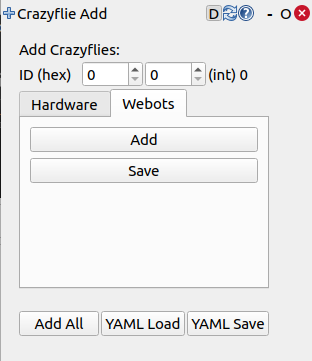
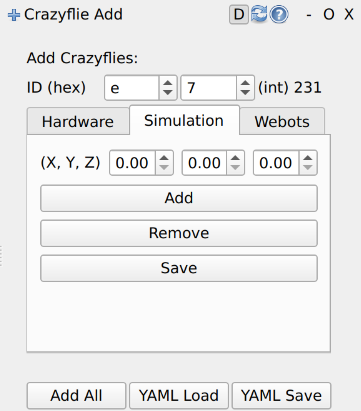
some work on docs

diff --git a/docs/welcome.rst b/docs/welcome.rst
@@ -7,7 +7,7 @@ Welcome to DynamicSwarms Crazyflies
     :maxdepth: 2
 
 The Dynamic Swarms Crazyflie project is a fully ROS2 based software stack that allows you to control multiple `Crazyflies <https://www.bitcraze.io/>`_ simultaneously.
-The project was heavily inspired by the `Crazyswarm <https://crazyswarm.readthedocs.io/en/latest/>`_ and `Crazyswarm 2 <https://imrclab.github.io/crazyswarm2/>`_ projects.
+The project was heavily inspired by the `Crazyswarm <https://crazyswarm.readthedocs.io/en/latest/>`_ [Crazyswarm]_ and `Crazyswarm 2 <https://imrclab.github.io/crazyswarm2/>`_ projects.
 It provides the ability to safely add and remove Crazyflies while the system is running. It is completely ROS2 based and therefore allows you to access the radio and other internal mechanisms directly.
 
 In our development of a Crazyflie Swarm Middleware with up to 50 Crazyflies, which are charged with the `QI-Charging Deck <https://www.bitcraze.io/products/qi-1_2-charger-deck/>`_, we modified the `Crazyswarm <https://crazyswarm.readthedocs.io/en/latest/>`_ project heavily to meet our needs. A key feature we needed was the ability to add and remove Crazyflies at runtime.
@@ -15,7 +15,9 @@ In our development of a Crazyflie Swarm Middleware with up to 50 Crazyflies, whi
 As ROS Noetic reached it's `end of life <http://wiki.ros.org/Distributions>`_ we wanted to move to ROS 2 and had to decide whether to integrate our changes into `Crazyswarm 2 <https://imrclab.github.io/crazyswarm2/>`_ or use the knowledge gained to develop our own software stack. 
 The `Crazyswarm 2 <https://imrclab.github.io/crazyswarm2/>`_ implementation did not come with any improvements regarding our specific needs, so we decided to develop this project.
 
-This package also provides a `Webots <https://cyberbotics.com/>`_ simulation interface so that simulated Crazyflies and real hardware Crazyflies can be used interchangeably.
+This package not only allows to control real Crazyflies, but also provides a lightweight simulation (which was tested with up to 80 Crazyflies) as well as a software in the loop (SITL) simulation. 
+The SITL simulation runs the Crazyflie firmware in a simulation environment, which allows for comprehensive testing of code before deploying it to real Crazyflies. It is based on [CrazySim]_.
+The quadcopter model used for the simulations is derived from [Flightmare]_.
 
 The following was created using our modified version of `Crazyswarm <https://crazyswarm.readthedocs.io/en/latest/>`_.
 
@@ -30,13 +32,11 @@ What is the difference to `Crazyswarm 2 <https://imrclab.github.io/crazyswarm2/>
 
 The `Crazyswarm 2 <https://imrclab.github.io/crazyswarm2/>`_ project, specifically the cpp backend, is implemented as a monolithic Ros2 node.
 This makes it difficult to modify and adapt the library to specific needs. 
-Our implementation has a ros **node for each Crazyflie**, which allows for way better flexibility and scalability.
+Our implementation has a **ROS2 node for each Crazyflie**, which allows for way better flexibility and scalability.
 
 This seperation into nodes also makes it much easier to **add and remove Crazyflies during runtime**.
 Especially if you do not know your swarm configuration at startup, the Crazyswarm(2) implementation is not suitable.
 
-A major difference is that crazyflie functionalities, such as ``takeoff, land, etc``, are not implemented as services but as topics.
-This allows user code to be completely independent of the implementation, avoiding deadlocks when a crazyflie fails.
 
 When should I use this library instead of `Crazyswarm 2 <https://imrclab.github.io/crazyswarm2/>`_?
 ***************************************************************************************************
@@ -48,3 +48,13 @@ When should I use this library instead of `Crazyswarm 2 <https://imrclab.github.
 
 
 Start working with ds-crazyflies and follow the :doc:`installation instructions </installation>`.
+
+
+References
+**********
+
+.. [Crazyswarm] Preiss, J. A., Hönig, W., Sukhatme, G. S., & Ayanian, N. (2017). `Crazyswarm: A Large Nano-Quadcopter Swarm <https://doi.org/10.1109/ICRA.2017.7989376>`_. IEEE International Conference on Robotics and Automation (ICRA), 3299--3304. `Source code <https://github.com/USC-ACTLab/crazyswarm>`_.
+
+.. [CrazySim] Llanes, C., Kakish, Z., Williams, K., & Coogan, S. (2024). `CrazySim: A Software-in-the-Loop Simulator for the Crazyflie Nano Quadrotor <https://coogan.ece.gatech.edu/papers/pdf/llanes2024crazysim.pdf>`_. IEEE International Conference on Robotics and Automation (ICRA).
+
+.. [Flightmare] Song, Y., Naji, S., Kaufmann, E., Loquercio, A., & Scaramuzza, D. (2020). *Flightmare: A Flexible Quadrotor Simulator.* Conference on Robot Learning (CoRL). `Source code <https://github.com/uzh-rpg/flightmare>`_.

diff --git a/docs/installation.rst b/docs/installation.rst
@@ -3,25 +3,25 @@
 Installation
 ############
 
-This project has been developed and tested for ROS2 Humble on following system configurations. 
+This project has been developed and tested for ROS2 Lyrical on following system configurations. 
 It is recommended to also use a similar configuration.
 
 ====== =======
 Ubuntu ROS
 ------ -------
-22.04  Humble
+26.04  Lyrical
 ====== =======
    
 Step by Step Instructions
 =========================
 
-#. If you have not already done so install `ROS 2 Humble <https://docs.ros.org/en/humble/index.html>`_ on your system.
+#. If you have not already done so install `ROS 2 Lyrical <https://docs.ros.org/en/lyrical/index.html>`_ on your system.
 
 #. These dependencies are required:
 
    .. code-block:: bash
 
-      sudo apt-get install ros-humble-tf-transformations ros-humble-ros2-control ros-humble-vision-msgs
+      sudo apt-get install ros-lyrical-tf-transformations
       sudo apt install python3-colcon-common-extensions
 
 #. Clone the `ds-crazyflies <https://github.com/DynamicSwarms/ds-crazyflies>`_ (this) repository 
@@ -43,7 +43,6 @@ Step by Step Instructions
 
    - ``simulation``: A lightweight simulation that can be used for testing.
 
-   - ``webots``: A more demanding simulation enviroment. (Make sure to install Webots as described below.) 
    
    - ``sitl``: The crazyflie firmware as software in the loop. Requires ``hardware`` to be selected as well.
 
@@ -55,42 +54,6 @@ Step by Step Instructions
 
             ./setup.sh simulation hardware
       
-      .. tab:: Build with Webots
-
-
-         #. Install the Webots Simulator (We are currently supporting Webots2025a): 
-
-            For this you can follow the instructions from Cyberbotics: https://cyberbotics.com/doc/guide/installation-procedure#installing-the-debian-package-with-the-advanced-packaging-tool-apt
-
-            .. code-block:: bash
-
-               sudo mkdir -p /etc/apt/keyrings
-               cd /etc/apt/keyrings
-               sudo wget -q https://cyberbotics.com/Cyberbotics.asc
-
-            .. code-block::   bash
-
-               echo "deb [arch=amd64 signed-by=/etc/apt/keyrings/Cyberbotics.asc] https://cyberbotics.com/debian binary-amd64/" | sudo tee /etc/apt/sources.list.d/Cyberbotics.list
-               sudo apt update
-
-            .. code-block::   bash
-
-               sudo apt install webots
-
-            .. note:: 
-               Avoid installing Webots via snap as this causes issues with the ROS2 integration.
-         
-         #. Configure with the ``webots`` option. 
-
-            .. code-block:: bash
-
-               ./setup.sh webots
-               
-         #. Export the webots home variable before building.
-
-            .. code-block:: bash
-
-               export WEBOTS_HOME=/usr/local/webots
 
 #. Build the workspace with colcon:
 
@@ -100,8 +63,54 @@ Step by Step Instructions
       colcon build
 
 
-Additional Steps for Webots
+End of Life Support for Webots
 ==========================
+
+Webots support will be removed in the future. 
+Probably it currently still works, if you want to, try the following:
+
+
+
+.. tabs::
+
+   .. tab:: Build with Webots
+
+
+            #. Install the Webots Simulator (We are currently supporting Webots2025a): 
+
+               For this you can follow the instructions from Cyberbotics: https://cyberbotics.com/doc/guide/installation-procedure#installing-the-debian-package-with-the-advanced-packaging-tool-apt
+
+               .. code-block:: bash
+
+                  sudo mkdir -p /etc/apt/keyrings
+                  cd /etc/apt/keyrings
+                  sudo wget -q https://cyberbotics.com/Cyberbotics.asc
+
+               .. code-block::   bash
+
+                  echo "deb [arch=amd64 signed-by=/etc/apt/keyrings/Cyberbotics.asc] https://cyberbotics.com/debian binary-amd64/" | sudo tee /etc/apt/sources.list.d/Cyberbotics.list
+                  sudo apt update
+
+               .. code-block::   bash
+
+                  sudo apt install webots
+
+               .. note:: 
+                  Avoid installing Webots via snap as this causes issues with the ROS2 integration.
+            
+            #. Configure with the ``webots`` option. 
+
+               .. code-block:: bash
+
+                  ./setup.sh webots
+                  
+            #. Export the webots home variable before building.
+
+               .. code-block:: bash
+
+                  export WEBOTS_HOME=/usr/local/webots
+
+
 
 The webots world is not included in this repository. It needs to be downloaded separately:
 

diff --git a/docs/usage.rst b/docs/usage.rst
@@ -65,7 +65,7 @@ We will first show how to use the framework with the simulation, using it with r
                     :height: 200px
                     :align: center
 
-        The small control button between the LinkQuality and the PropellerTest button opens a small high level commander interface.
+        The small control button to the left of the PropellerTest button opens a small high level commander interface.
 
         Here you can send takeoff, goTo and land commands to the crazyflie.
         The position field should also update correctly.
@@ -76,6 +76,9 @@ Hardware
 
     When `hardware` is selected it is necessary to set the `radio_channels` argument: 
     If using external tracking (e.g. Vicon, OptiTrack), set `tracked:=true`.
+
+    .. Note::
+        Currently OptiTrack compilation is broken. Only Vicon is currently supprted.
     
     .. code-block:: bash
 
@@ -118,11 +121,11 @@ Usage without RQT
             initial_position: [0.0, 0.0, 0.0]
             type: 'default'"
 
-    For connecting a webots crazyflie:
+    For connecting a simulated crazyflie:
 
     .. code-block:: bash
 
-        ros2 service call /crazyflie_webots_gateway/add_crazyflie crazyflie_interfaces/srv/AddCrazyflie "uri: 'webots://0'"
+        ros2 service call /crazyflie_simulation_gateway/add_crazyflie crazyflie_interfaces/srv/AddCrazyflie "uri: 'sim://0'"
 
     The result should include a `success=True`.
     

diff --git a/docs/configuration.rst b/docs/configuration.rst
@@ -6,7 +6,7 @@ Configuration
 Start by configuring the hardware as well as the software components.
 
 .. note::
-   If you only want to use the simulation or webots, you can skip this section and skip to :doc:`Usage </usage>` section immediately.
+   If you only want to use the simulation, you can skip this section and skip to :doc:`Usage </usage>` section immediately.
 
 Hardware
 --------
